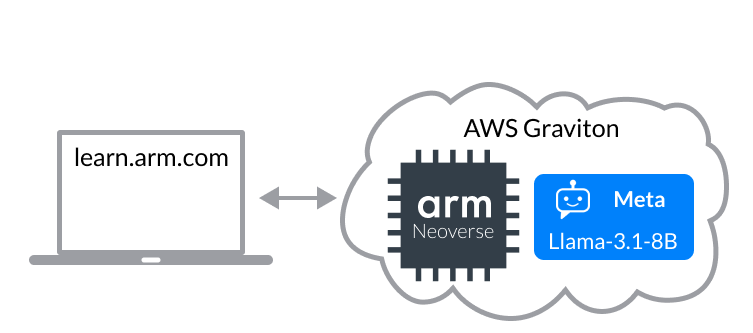
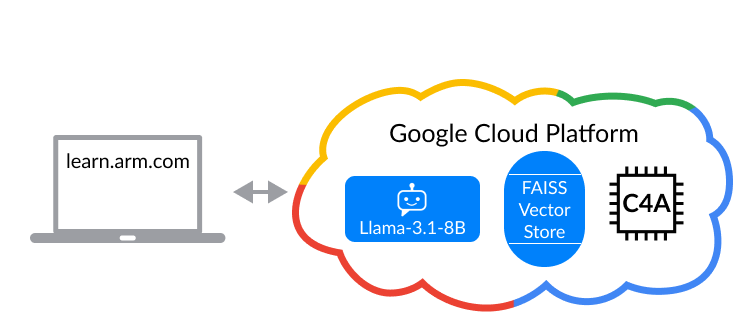
improving RAG data, created new env var to seperate ai demo calls

Changed region(s): [[0.0305, 0.2402, 0.9774, 0.961]]

diff --git a/themes/arm-design-system-hugo-theme/layouts/partials/demo-components/llm-chatbot/javascript--llm-chatbot.html b/themes/arm-design-system-hugo-theme/layouts/partials/demo-components/llm-chatbot/javascript--llm-chatbot.html
@@ -573,7 +573,22 @@ Calls to:
 
 
 (function() {
-    const server_location_encoded = '{{ getenv "HUGO_LLM_API" | base64Encode }}';
+
+    {{/* Get server location from GH Secrets */}}
+    {{ $server_location := "" }};
+
+    {{ if eq .Params.demo_template_name "llm_chatbot_rag_demo" }}
+        {{ $server_location = getenv "HUGO_LLM_API" | base64Encode }}
+        console.log('Using RAG API.');
+    {{ else if eq .Params.demo_template_name "llm_chatbot_first_demo" }}
+        {{ $server_location = getenv "HUGO_RAG_API" | base64Encode }}
+        console.log('Using LLM API.');
+    {{ else }}
+        console.log('No server location provided.');
+    {{ end }}
+
+
+    const server_location_encoded = '{{ $server_location }}';
 
 
     function startPingCheck() {

diff --git a/themes/arm-design-system-hugo-theme/layouts/partials/footer/script-includes.html b/themes/arm-design-system-hugo-theme/layouts/partials/footer/script-includes.html
@@ -42,12 +42,6 @@ Called from:
 <!-- Demo page only -->
 {{ if and $is_content (hasPrefix .File.TranslationBaseName "_demo")}}
 <script src="https://cdn.jsdelivr.net/npm/marked/marked.min.js"></script>
-<script>
-    // Your script using `marked`
-    const markdownString = "# Hello, Markdown!";
-    const htmlContent = marked(markdownString);
-    console.log(htmlContent);
-  </script>
 {{end}}
 
 <!-- Also add prism to any _demo page that needs it, set as a 'prismjs' variable -->
